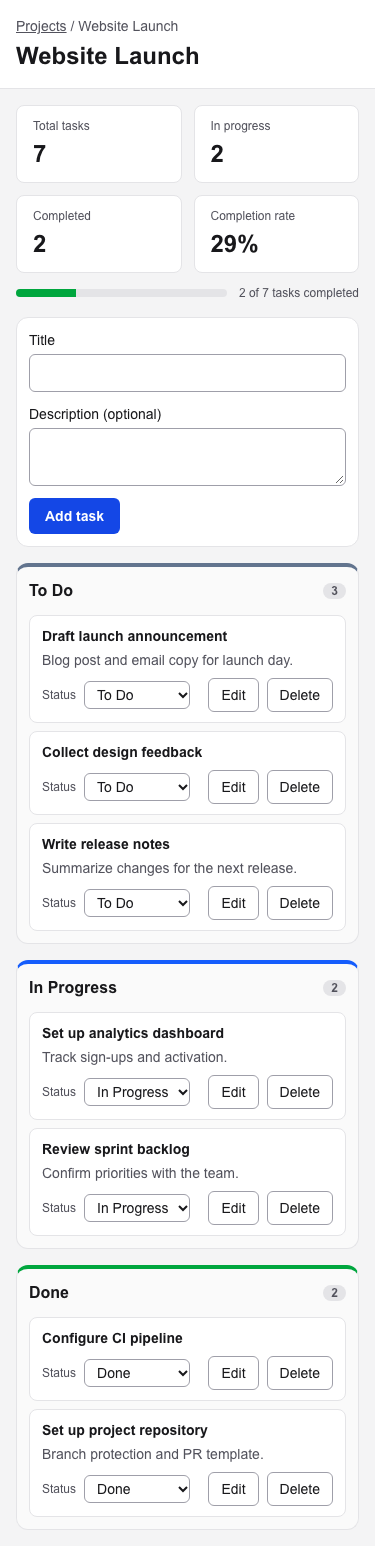
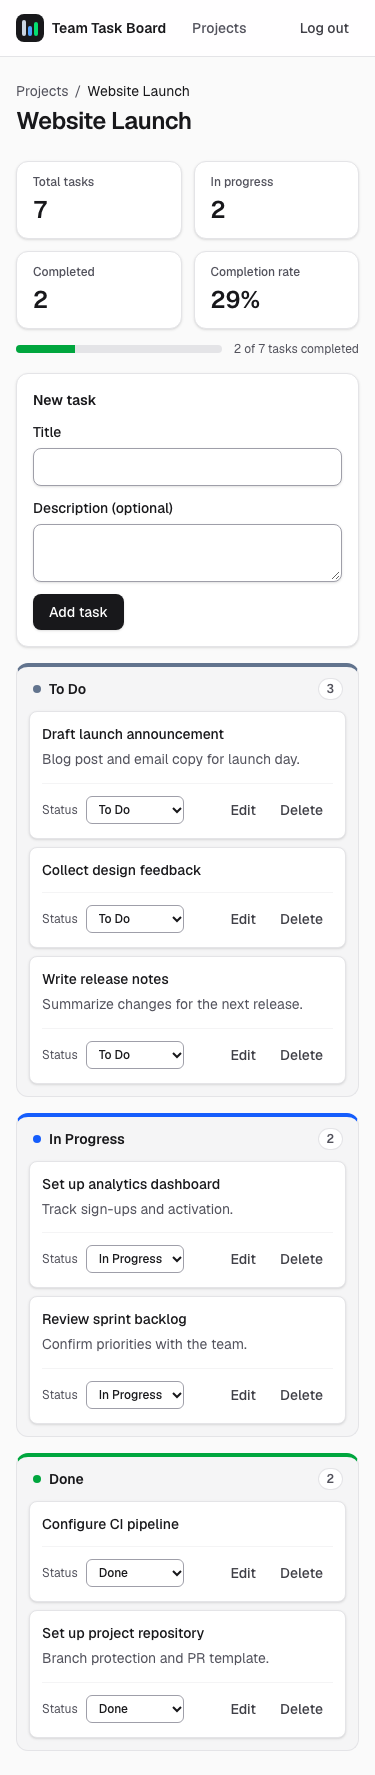
docs(#41): update DESIGN.md, the README, and screenshots for the polished UI
Refs #41

diff --git a/DESIGN.md b/DESIGN.md
@@ -1,67 +1,74 @@
 ---
-# Tokens for tools; prose below for judgment. Values come from docs/mockups/board.html.
-# Each token maps to a Tailwind v4 default class, so no @theme change is needed.
+# Tokens for tools; prose below for judgment. Each token maps to a Tailwind v4 default class, so no @theme change is needed.
+# Updated by #41 (UI polish); the original mockups in docs/mockups/ remain the layout reference.
 name: Team Task Board
 colors:
-  background: "#f4f4f5"   # bg-zinc-100 — page
-  surface: "#ffffff"      # bg-white — cards, header
-  column: "#fafafa"       # bg-zinc-50 — column body
+  background: "#fafafa"   # body — page
+  surface: "#ffffff"      # bg-white — header, cards, forms, stat cards
+  column: "#f4f4f5"       # bg-zinc-100/80 — column body
   border: "#e4e4e7"       # border-zinc-200 — cards, columns, header rule
   text: "#18181b"         # text-zinc-900
-  muted: "#52525b"        # text-zinc-600 — descriptions, breadcrumb, counts; lightest text allowed on white
-  control-border: "#a1a1aa" # border-zinc-400 — select, empty-state dash
-  todo: "#64748b"         # border-t-slate-500
-  in-progress: "#2563eb"  # border-t-blue-600; also the focus ring
-  done: "#16a34a"         # border-t-green-600
+  muted: "#52525b"        # text-zinc-600 — descriptions, breadcrumb, counts; lightest text allowed
+  control-border: "#a1a1aa" # border-zinc-400 — inputs, selects, empty-state dash
+  primary: "#18181b"      # bg-zinc-900 — primary buttons, brand mark
+  todo: "#64748b"         # slate-500 — column top border and dot
+  in-progress: "#2563eb"  # blue-600 — column top border and dot; also the focus ring
+  done: "#16a34a"         # green-600 — column top border, dot, progress fill
+  danger: "#b91c1c"       # red-700 — destructive buttons; red-50/red-200 for confirm panels and errors
 typography:
-  family: system-ui        # font-sans default
-  body: { size: 14px, lineHeight: 1.45 }   # text-sm
-  h1: { size: 22px }                        # text-2xl is close enough; keep one h1
-  h2: { size: 15px }                        # text-base font-semibold
-  h3: { size: 14px, weight: 600 }           # text-sm font-semibold
-  small: { size: 12px }                     # text-xs — counts, "Status" label
+  family: Geist (next/font) # font-sans
+  body: { size: 14px }                      # text-sm
+  h1: { size: 24px, weight: 600 }           # text-2xl font-semibold tracking-tight (home: text-3xl/4xl)
+  h2: { size: 14px, weight: 600 }           # text-sm font-semibold — column and section titles
+  h3: { size: 14px, weight: 500 }           # text-sm font-medium — task and project names
+  small: { size: 12px }                     # text-xs — counts, captions, "Status" label
 radius:
-  card: 8px     # rounded-lg
-  column: 10px  # rounded-xl
+  control: 8px  # rounded-lg — buttons, inputs, cards
+  panel: 12px   # rounded-xl — columns, forms, stat cards
   pill: 999px   # rounded-full
 spacing:
-  page-padding: 16px  # p-4
+  page-padding: 16px  # px-4
   board-gap: 16px     # gap-4
   card-gap: 8px       # gap-2
-  max-width: 1200px   # max-w-7xl mx-auto
+  max-width: 1280px   # max-w-7xl (board), max-w-5xl (home, projects)
 ---
 
 # DESIGN.md — Team Task Board
 
-Visual spec for UI work. Mockups: `docs/mockups/board.png` (1280px), `docs/mockups/board-mobile.png` (375px), source `docs/mockups/board.html`. When this file and the mockup disagree, ask.
+Visual spec for UI work. Original mockups: `docs/mockups/board.png` (1280px), `docs/mockups/board-mobile.png` (375px), source `docs/mockups/board.html`. Current screenshots: `docs/screenshots/`. When this file and the mockup disagree, this file wins (it records the #41 polish); ask if a change would alter the layout itself.
 
 ## Overview
 
-Calm, utilitarian Kanban. Content first: the only color on the page is the column top borders and the focus ring. No shadows, gradients, icons, or decoration.
+Calm, modern, utilitarian, in the spirit of Linear and Notion. Neutral surfaces with soft borders and light shadows; color carries meaning only: the status accents (slate, blue, green), the progress fill, red for destructive actions and errors, and the blue focus ring. No gradients, illustrations, or icon libraries.
 
 ## Layout
 
-- White header (`border-b border-zinc-200`) with a muted breadcrumb **"Projects / {project name}"** above the `<h1>` project name.
-- Board: `grid grid-cols-1 gap-4 md:grid-cols-3` inside `max-w-7xl mx-auto p-4`. Columns stack below 768px. No horizontal page scroll at 375px.
+- **App header** (`AppHeader`) on every signed-in page: sticky, white, `border-b border-zinc-200`, `h-14`. Left: brand mark + "Team Task Board" link to `/`, then `<nav aria-label="Main">` with **Projects** (`aria-current="page"` on `/projects`). Right: ghost **Log out**. No headings and no lists in the header.
+- **Board page:** `<nav aria-label="Breadcrumb">` "Projects / {project name}" (the name has `aria-current="page"`), then the `<h1>`, the project overview, the New task form, and the board grid `grid grid-cols-1 gap-4 md:grid-cols-3` inside `max-w-7xl mx-auto px-4 py-6`. Columns stack below 768px. No horizontal page scroll at 375px.
+- **Projects page:** `<h1>` with a one-line description; below, `lg:grid-cols-[320px_1fr]`: the New project card (sticky on large screens) and "Your projects" as a card grid (`sm:grid-cols-2`).
+- **Auth pages:** centered `max-w-sm` card with the brand above it.
 
 ## Components
 
 | Component | Spec |
 |---|---|
-| `BoardColumn` | `<section aria-labelledby>`; `bg-zinc-50 border border-zinc-200 rounded-xl p-3 border-t-4` plus the status color. `<h2>` title on the left, count pill on the right. Cards in `<ul>`/`<li>` with `gap-2`. |
-| `ProjectOverview` | Above the add-task form: `role="group"` named "Project overview"; a `<dl>` of four stat cards (`bg-white border border-zinc-200 rounded-lg px-4 py-3`; label `text-xs text-zinc-600`, value `text-2xl font-semibold tabular-nums`) in `grid-cols-2 sm:grid-cols-4`; then a native `<progress>` (`h-2 rounded-full`, track `bg-zinc-200`, fill `bg-green-600`) named "Completion rate" with an "X of Y tasks completed" caption. |
-| Count pill | `rounded-full bg-zinc-200 px-2 text-xs font-semibold text-zinc-600`. |
-| Empty state | Dashed box (`border border-dashed border-zinc-400 rounded-lg py-5 text-center text-zinc-600`) with **"No tasks yet"**. |
-| `TaskCard` | `bg-white border border-zinc-200 rounded-lg px-3 py-2.5`. `<h3>` title; optional description `text-zinc-600`. Below: visible "Status" text (`aria-hidden`) and a native `<select>` (`border-zinc-400 rounded-md`) with `aria-label="Status for {title}"`. |
-| Focus | `focus-visible:outline-2 focus-visible:outline-offset-2 focus-visible:outline-blue-600` on every control. |
-
-Column colors: To Do `border-t-slate-500`, In Progress `border-t-blue-600`, Done `border-t-green-600`.
+| Buttons | From `src/components/ui/button-styles.ts`: `PRIMARY_BUTTON` (zinc-900, white text), `SECONDARY_BUTTON` (white, `border-zinc-300`), `GHOST_BUTTON` (text only, `hover:bg-zinc-100`), `DANGER_BUTTON` (red-700). All `rounded-lg text-sm font-medium` with the focus ring. Submit buttons show a small spinner while pending. |
+| Inputs | `INPUT`: `rounded-lg border border-zinc-400 bg-white px-3 py-2 text-sm shadow-sm`; label `text-sm font-medium` above; hint `text-xs text-zinc-600`. |
+| `ProjectOverview` | `role="group"` named "Project overview"; a `<dl>` of four stat cards (`bg-white border border-zinc-200 rounded-xl px-4 py-3 shadow-sm`; label `text-xs text-zinc-600`, value `text-2xl font-semibold tabular-nums`) in `grid-cols-2 sm:grid-cols-4`; then a native `<progress>` (`h-2 rounded-full`, track `bg-zinc-200`, fill `bg-green-600`) named "Completion rate" with an "X of Y tasks completed" caption. |
+| `BoardColumn` | `<section aria-labelledby>`; `rounded-xl border border-zinc-200 border-t-4 bg-zinc-100/80 p-3` plus the status color on the top border. Header: status dot (decorative) + `<h2>` with **only the title**; count pill (`rounded-full bg-white ring-1 ring-zinc-200 text-xs font-semibold`) beside it, with "tasks" for screen readers. Cards in `<ul>`/`<li>`, `gap-2`. |
+| Empty state | Dashed box (`border-dashed border-zinc-400 rounded-lg`) with **"No tasks yet"** (columns) or **"No projects yet"** plus a one-line hint (projects). |
+| `TaskCard` | `bg-white border border-zinc-200 rounded-lg p-3 shadow-sm hover:shadow-md`. `<h3>` title (`font-medium`), optional description `text-zinc-600`. Footer above a hairline: visible "Status" text (`aria-hidden`) and a native `<select>` named **"Status for {title}"**; ghost **Edit** and **Delete** named "Edit {title}" / "Delete {title}". |
+| Delete confirmation | Inline panel `rounded-lg border border-red-200 bg-red-50 p-3`: question, danger **Confirm delete**, secondary **Cancel** (focused first). |
+| Errors | `FormError`: `role="alert"`, `rounded-lg border border-red-200 bg-red-50 text-red-800`, decorative "!" badge. |
+| Loading | Skeletons that mirror the page (`animate-pulse motion-reduce:animate-none`) with a visually hidden `role="status"` message. |
+| Focus | `focus-visible:outline-2 focus-visible:outline-offset-2 focus-visible:outline-blue-600` on every control (`FOCUS_RING`). |
 
 ## Do's and Don'ts
 
-- Do build from native elements (`<select>`, `<button>`, `<input>`) before custom widgets.
-- Do reuse a component in `src/components/` before making a new one.
-- Don't use color as the only signal: every column has a text title and a count.
-- Don't use text lighter than `text-zinc-600` on white (WCAG AA 4.5:1).
+- Do build from native elements (`<select>`, `<button>`, `<input>`, `<progress>`) before custom widgets.
+- Do reuse `button-styles.ts` and the components in `src/components/` before making new ones.
+- Don't use color as the only signal: columns have text titles and counts; links in running text are underlined.
+- Don't use text lighter than `text-zinc-600` on white or zinc-100 (WCAG AA 4.5:1).
 - Don't remove focus outlines (`outline-none`, `outline-hidden`).
+- Don't add a second `<h1>`, headings in the app header, or lists outside page content.
 - Don't add drag-and-drop; status changes go through the select.

diff --git a/README.md b/README.md
@@ -18,6 +18,7 @@ A minimal Kanban task board. Users sign up, group work into projects, and move t
 - **Project overview** (#40): above the board, cards show total tasks, in progress, completed, and the completion rate, with a progress bar. They are derived from the board's tasks and update as soon as a card moves.
 - **Tasks** (#7, #9): add a task (title required, description optional), edit its title and description, and delete it after confirming.
 - **REST API** (#7, #11, US5): every `/api/v1` endpoint is described in [docs/api/openapi.yaml](docs/api/openapi.yaml) and browsable with Swagger UI at `/api/docs`. Errors use `{ "error": { "code", "message" } }`.
+- **App shell** (#41): a shared header with the app name, Projects navigation, and Log out; a breadcrumb on each board; consistent buttons, inputs, empty states, loading skeletons, and error messages.
 - **Accessible and responsive**: native controls with labels, visible focus, announced errors; columns side by side from 768px and stacked below, with no horizontal scroll at 375px.
 
 ## Tech stack
